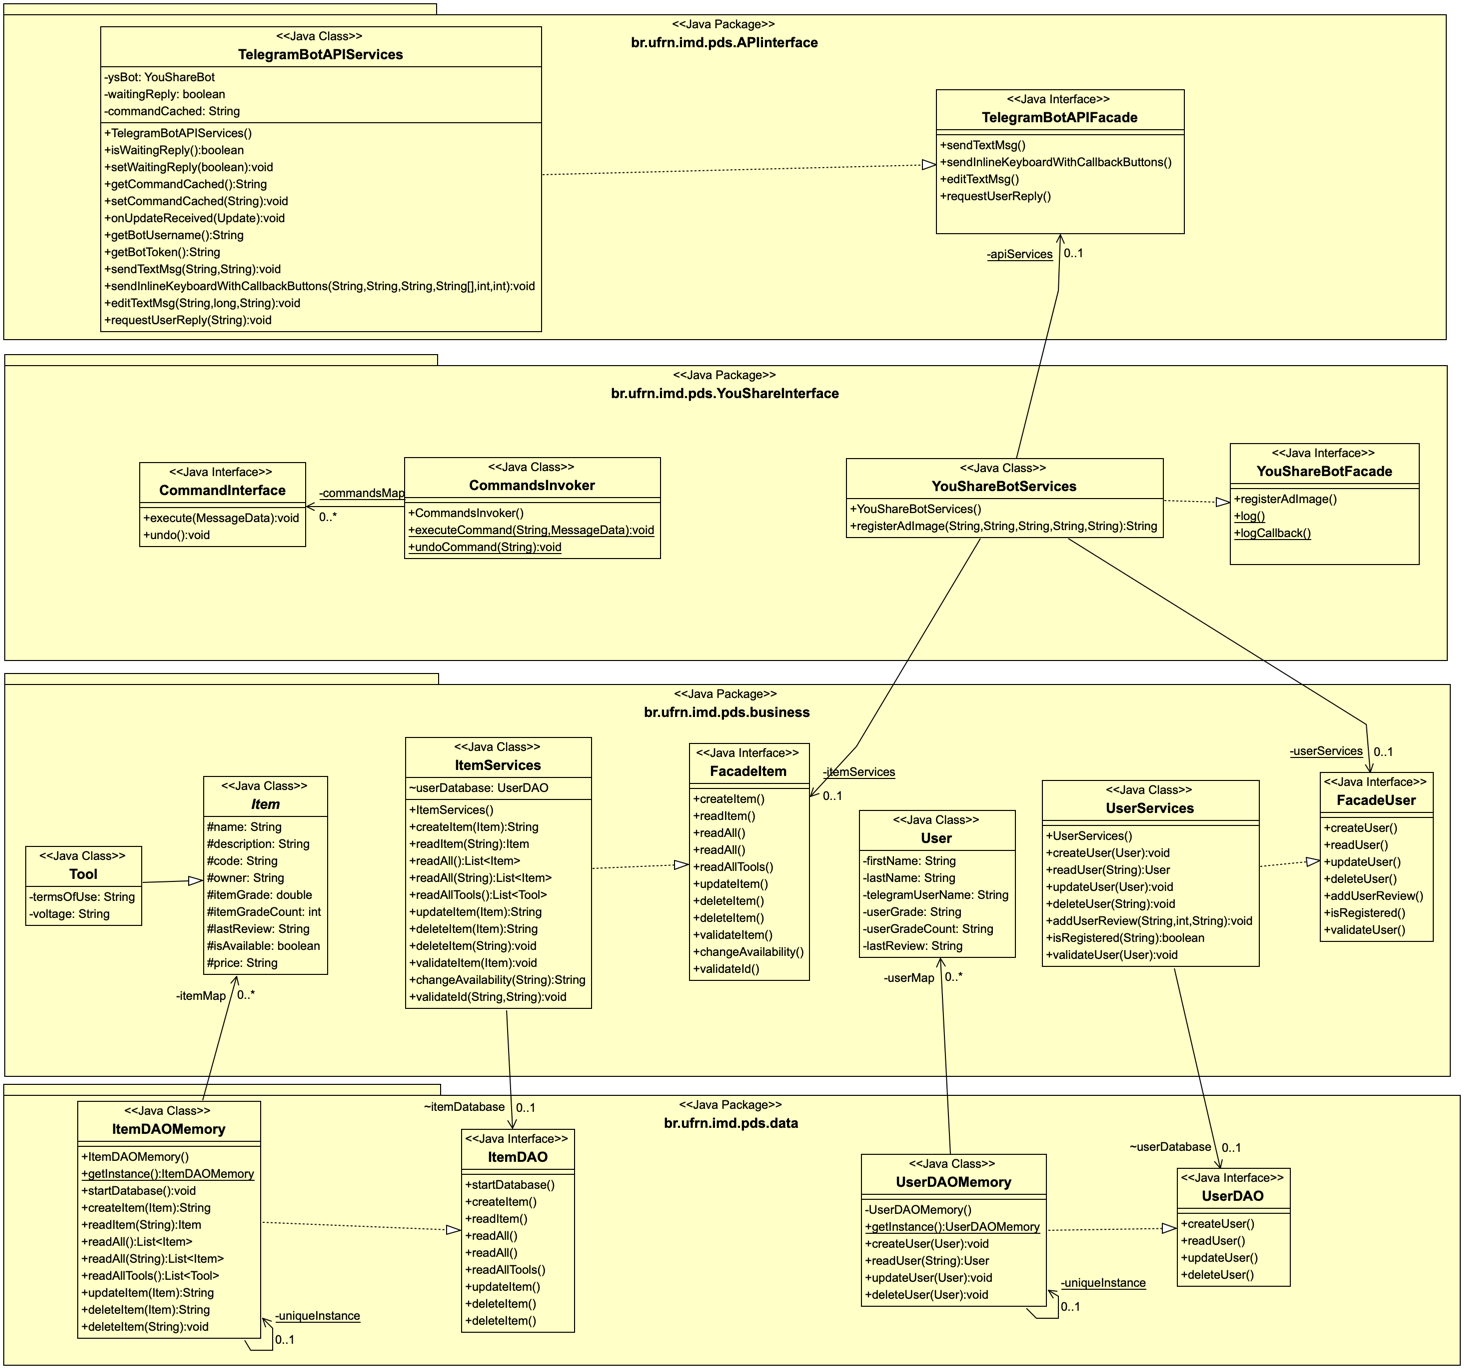
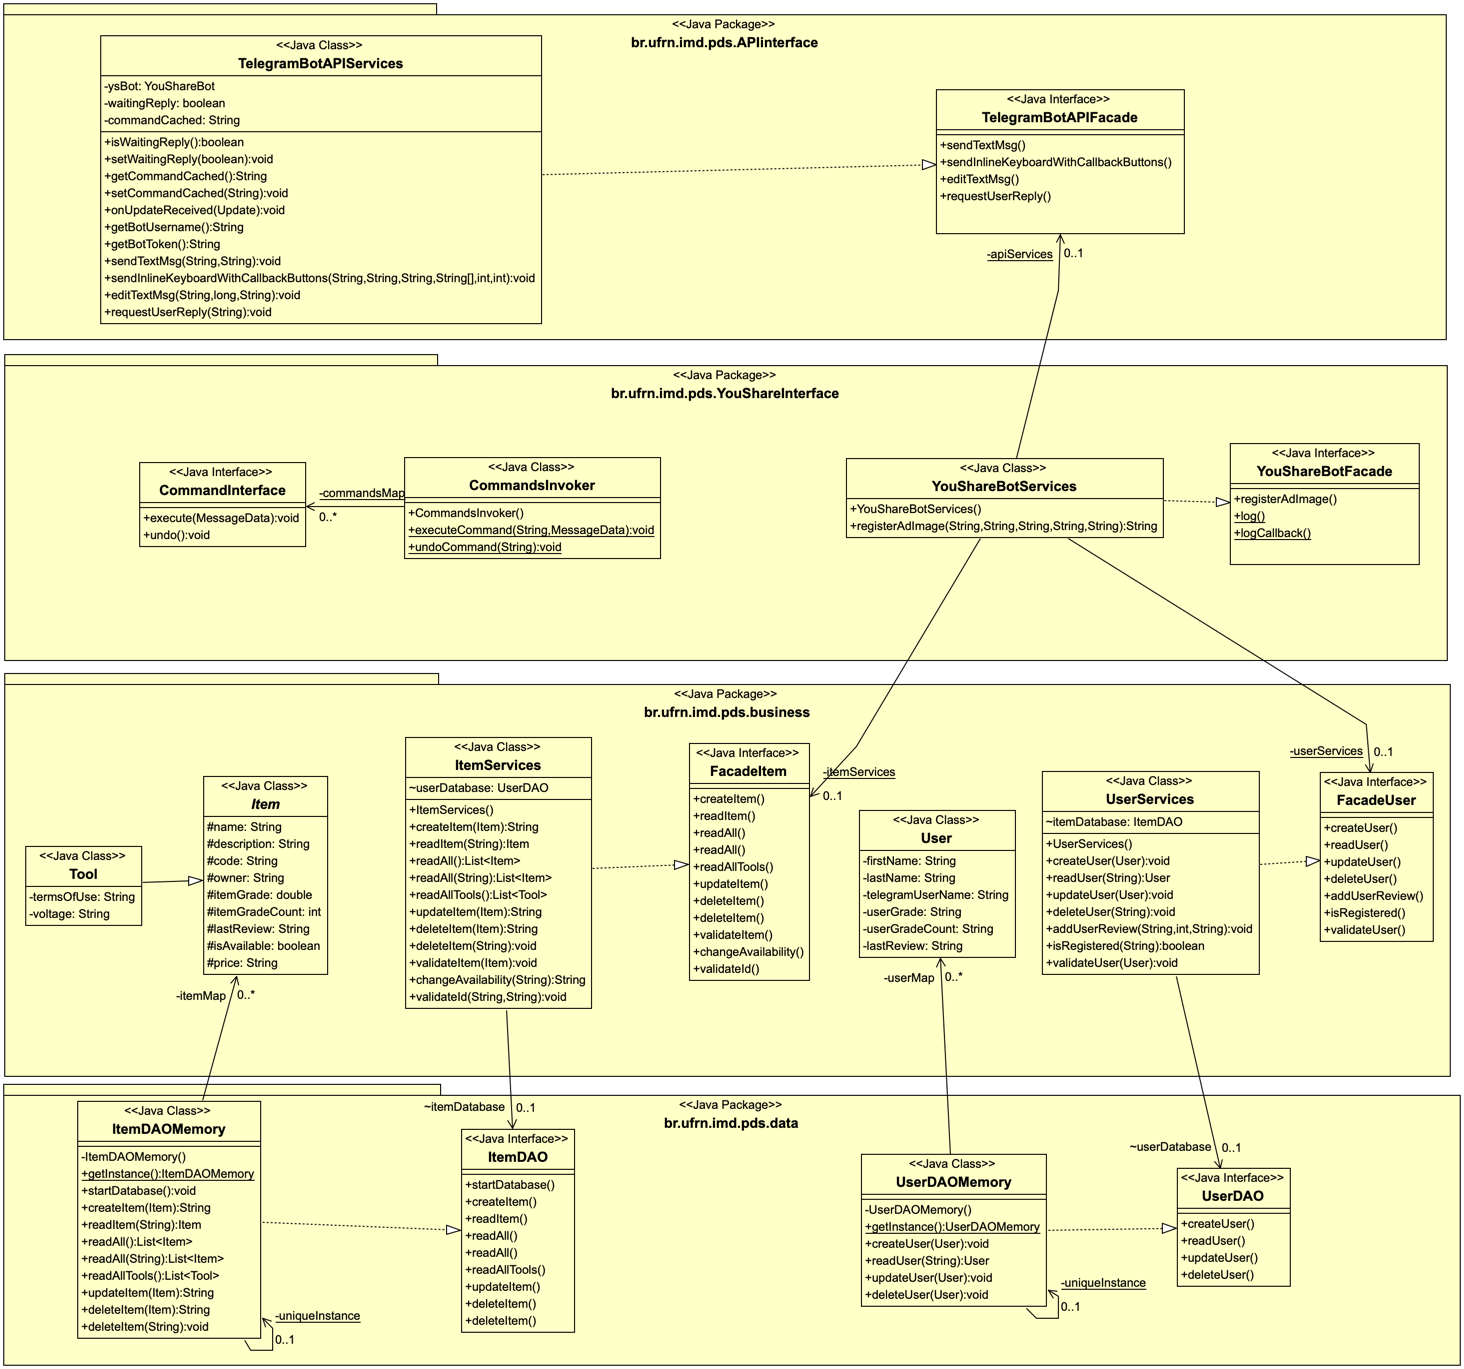
doing search use case.
search frontend initiated; search backend initiated;

Changed region(s): [[0.0615, 0.0, 0.3689, 0.2454], [0.707, 0.5522, 0.8607, 0.7363], [0.0615, 0.8283, 0.123, 0.859]]

diff --git a/YouShare_vs1/src/main/java/br/ufrn/imd/pds/data/ItemDAOMemory.java b/YouShare_vs1/src/main/java/br/ufrn/imd/pds/data/ItemDAOMemory.java
@@ -130,6 +130,79 @@ public class ItemDAOMemory implements ItemDAO {
 		
 		return items; // TODO check if it is fine to return empty list
 	}
+	
+	@Override
+	public List<Item> readAll(String name, String[] filters) throws DataException {
+		ArrayList<Item> items = new ArrayList<Item>();
+
+		if( filters == null ) {
+			
+			for ( Map.Entry<String,Item> pair : itemMap.entrySet() ) {
+				Item item = pair.getValue();
+				if( item.getName().equals(name) ) {
+					items.add( item );
+				}
+			}
+			
+		} else {
+			
+			for ( Map.Entry<String,Item> pair : itemMap.entrySet() ) {
+				Item item = pair.getValue();
+				boolean isAmatch = item.getName().equals(name);
+				for( String filter: filters ) {
+					
+					// check filters
+					if( filter.equals("grade_1+") ) {
+						isAmatch = isAmatch && ( item.getItemGrade() >= 1.0 );
+						
+					} else if( filter.equals("grade_2+") ) {
+						isAmatch = isAmatch && ( item.getItemGrade() >= 2.0 );
+						
+					}  else if( filter.equals("grade_3+") ) {
+						isAmatch = isAmatch && ( item.getItemGrade() >= 3.0 );
+						
+					} else if( filter.equals("grade_4+") ) {
+						isAmatch = isAmatch && ( item.getItemGrade() >= 4.0 );
+						
+					} else if( filter.equals("price_10-") ) {
+						double price = Double.parseDouble(item.getPrice());
+						isAmatch = isAmatch && ( price <= 10.0 );
+						
+					} else if( filter.equals("price_10-20") ) {
+						double price = Double.parseDouble(item.getPrice());
+						isAmatch = isAmatch && ( price >= 10.0 && price < 20.0 );
+						
+					} else if( filter.equals("price_20+") ) {
+						double price = Double.parseDouble(item.getPrice());
+						isAmatch = isAmatch && ( price >= 20.0 );
+						
+					} else if( filter.equals("price_10-") ) {
+						double price = Double.parseDouble(item.getPrice());
+						isAmatch = isAmatch && ( price <= 10.0 );
+						
+					} else if( filter.equals("condition_weared") ) {
+						isAmatch = isAmatch && ( item.getCode().equals("weared") );
+						
+					} else if( filter.equals("condition_good") ) {
+						isAmatch = isAmatch && ( item.getCode().equals("good") );
+						
+					} else if( filter.equals("condition_new") ) {
+						isAmatch = isAmatch && ( item.getCode().equals("new") );
+						
+					}
+				}
+				
+				// if found required item, add it 
+				if( isAmatch ) {
+					items.add( item );
+				}
+			}
+			
+		}
+		
+		return items;
+	}
+
 
 	@Override
 	public List<Tool> readAllTools() {
@@ -229,6 +302,7 @@ public class ItemDAOMemory implements ItemDAO {
 		
 		
 	}
+
 
 	
 }

diff --git a/YouShare_vs1/src/main/java/br/ufrn/imd/pds/YouShareInterface/YouShareBotServices.java b/YouShare_vs1/src/main/java/br/ufrn/imd/pds/YouShareInterface/YouShareBotServices.java
@@ -815,14 +815,37 @@ public class YouShareBotServices implements YouShareBotFacade {
 		boolean isUserRegistered = userServices.isRegistered( message.getTelegramUserName() );
 		if( isUserRegistered ) { 		
 			
-			botAnswer = "Which item are you interested?\n";
-				
-			// list user ads
-				
-			// botAnswer += "Type the item id for more details. \n";
-				
-			// request APIInterface to send text message to user
+			botAnswer = "What item is you interested in?\n";
 	   	    apiServices.sendTextMsg( message.getChatId(), botAnswer );
+
+	   	    // TODO colocar codigo seguinte dentro do comando searchbackend ou fazer um submenu
+	   	    
+			// list of ads
+			botAnswer = "*** " + " availables ***\n";
+
+			//itemServices.
+			
+			
+			botAnswer += "\n\nType the item id for more details. \n";
+			
+			// TODO button page labels builder
+			String[] buttonsLabels = {"<< prev","next >>"}; 
+			
+			// turn page buttons 
+			apiServices.sendInlineKeyboardWithCallbackButtons( message.getChatId(), botAnswer, "searchPage", buttonsLabels, 2, 1);
+
+			
+			botAnswer = "Filter your search: \n";			
+	   	    apiServices.sendTextMsg( message.getChatId(), botAnswer );
+	   	    
+			botAnswer = "Grade: ";
+			apiServices.sendInlineKeyboardWithCallbackButtons( message.getChatId(), botAnswer, "filter#" + message.getMessageId(), new String[] {"1+","2+","3+","4+"}, 4, 1);
+			
+			botAnswer = "Price: ";
+			apiServices.sendInlineKeyboardWithCallbackButtons( message.getChatId(), botAnswer, "filter#" + message.getMessageId(), new String[] {"until $10","$10-20","$20+"}, 3, 1);
+			
+			botAnswer = "Condition: ";
+			apiServices.sendInlineKeyboardWithCallbackButtons( message.getChatId(), botAnswer, "filter#" + message.getMessageId(), new String[] {"weared","good","new"}, 3, 1);
 	    	    
 		}  else { // new user
 	    		

diff --git a/YouShare_vs1/src/main/java/br/ufrn/imd/pds/data/ItemDAO.java b/YouShare_vs1/src/main/java/br/ufrn/imd/pds/data/ItemDAO.java
@@ -4,6 +4,7 @@ import java.util.List;
 
 import br.ufrn.imd.pds.business.Item;
 import br.ufrn.imd.pds.business.Tool;
+import br.ufrn.imd.pds.exceptions.BusinessException;
 import br.ufrn.imd.pds.exceptions.DataException;
 
 public interface ItemDAO {
@@ -29,7 +30,11 @@ public interface ItemDAO {
 	
 	/// Return all items from user owner in the database.
 	public List<Item> readAll( String owner );
+	
+	/// Return all items registered by name with filters.
+	public List<Item> readAll( String name, String[] filters) throws DataException;
 		
+	
 	/// Return all Tools registered in the database.
 	public List<Tool> readAllTools( );	
 		

diff --git a/YouShare_vs1/src/main/java/br/ufrn/imd/pds/business/ItemServices.java b/YouShare_vs1/src/main/java/br/ufrn/imd/pds/business/ItemServices.java
@@ -89,6 +89,19 @@ public class ItemServices implements FacadeItem {
 	}
 
 	@Override
+	public List<Item> readAll(String name, String[] filters) throws BusinessException {
+		
+		if( name == null || name.isBlank() ) {
+			throw new BusinessException("Search returned no results. Specify what do you want to search.");
+
+		} else {
+			
+		}
+		
+		return null;
+	}
+	
+	@Override
 	public List<Tool> readAllTools() {
 		return itemDatabase.readAllTools();
 	}
@@ -264,6 +277,7 @@ public class ItemServices implements FacadeItem {
 		}
 		
 	}
+
 
 
 	/*

diff --git a/YouShare_vs1/src/main/java/br/ufrn/imd/pds/business/FacadeItem.java b/YouShare_vs1/src/main/java/br/ufrn/imd/pds/business/FacadeItem.java
@@ -22,7 +22,10 @@ public interface FacadeItem {
 		
 	/// Return all items registered by user owner.
 	public List<Item> readAll( String owner ) throws BusinessException;	
-		
+	
+	/// Return all items registered by name with filters.
+	public List<Item> readAll( String name, String[] filters) throws BusinessException;
+	
 	/// Return all Tools registered.
 	public List<Tool> readAllTools( );	
 	
